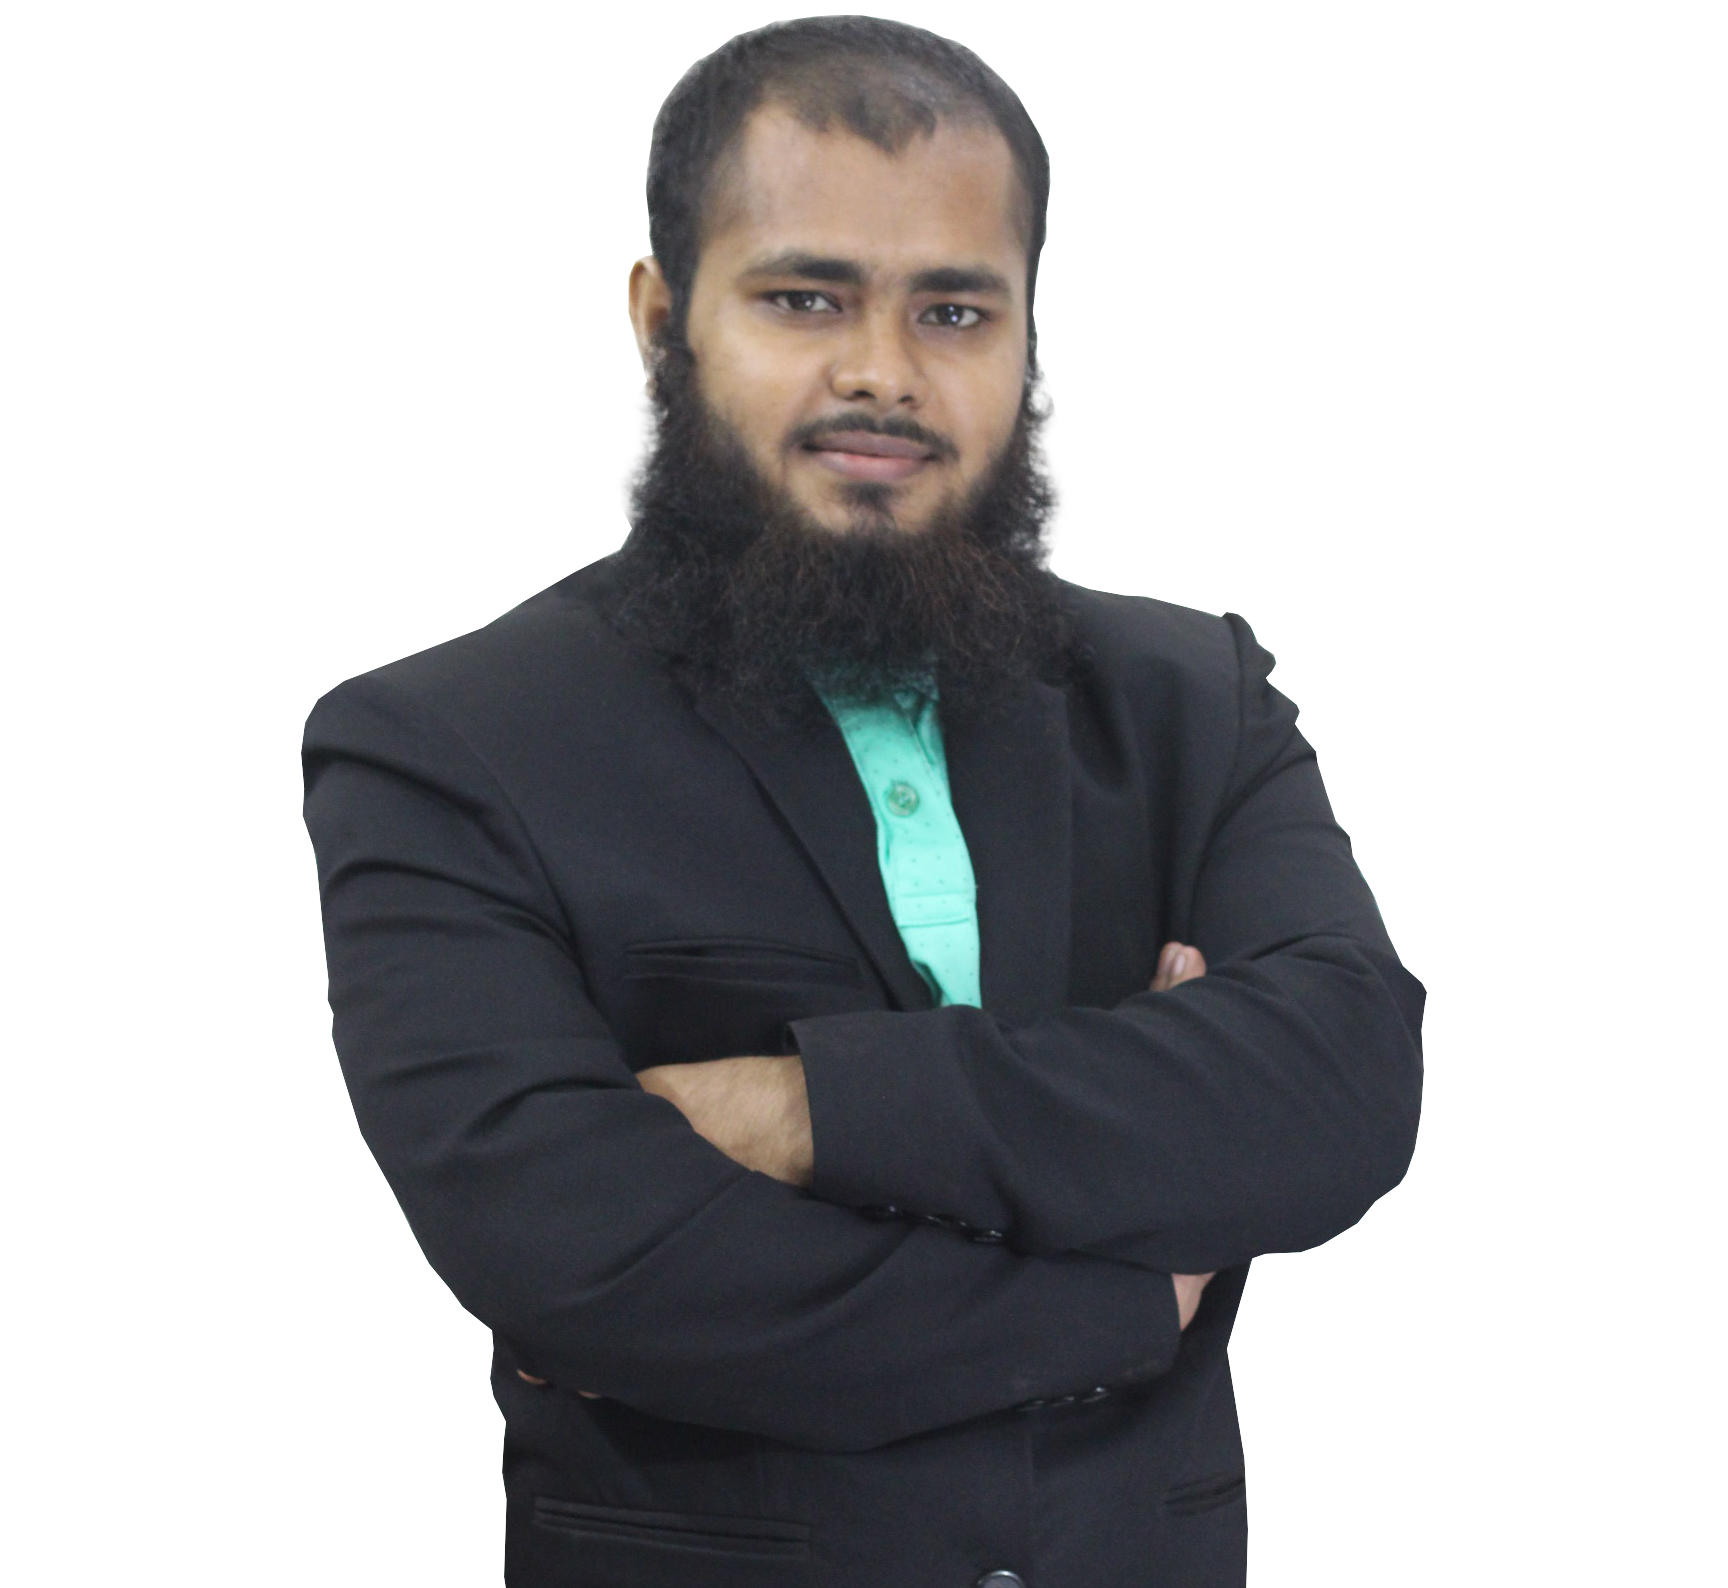
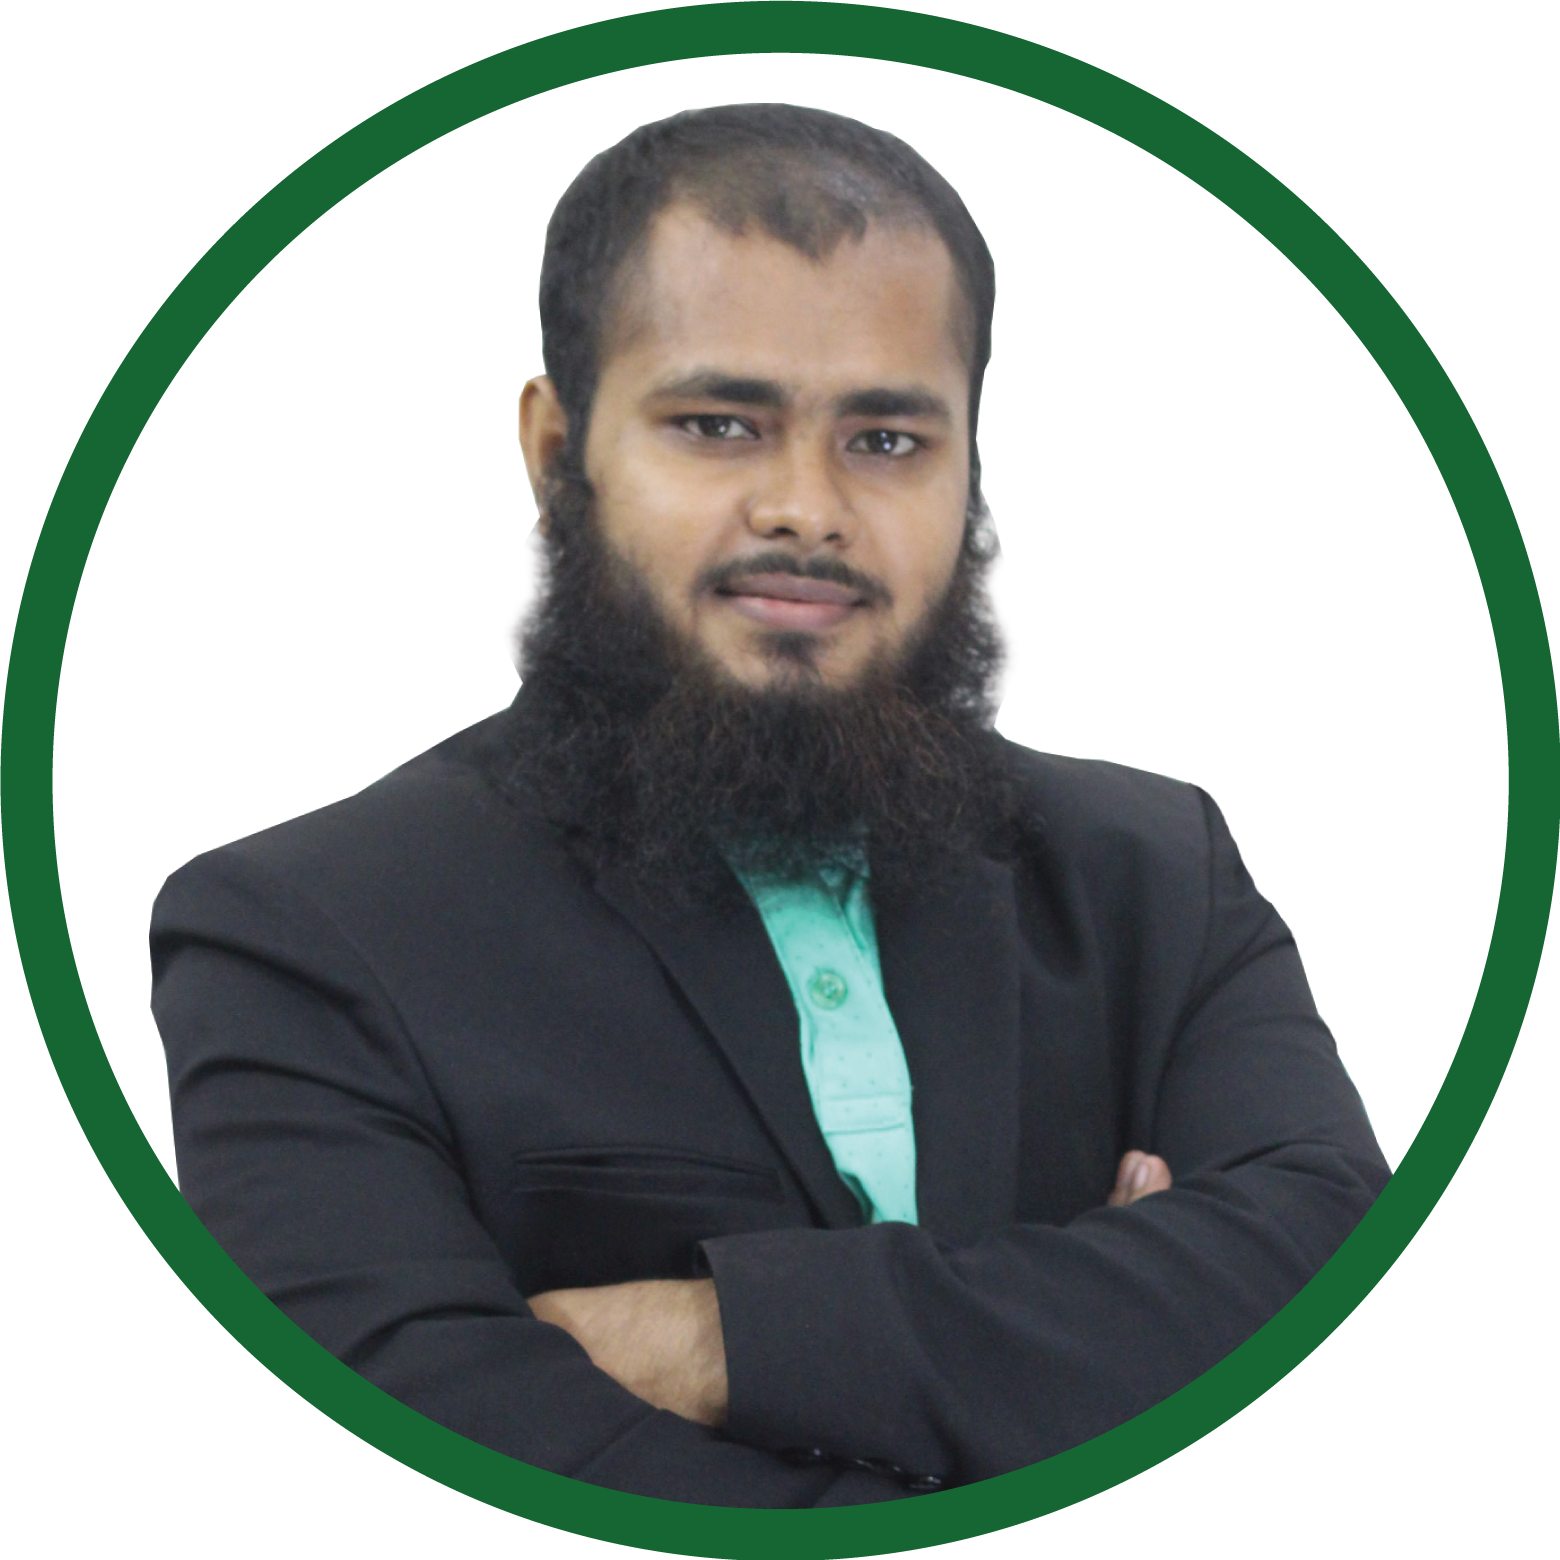
update section are done

diff --git a/src/Components/Blog.js b/src/Components/Blog.js
@@ -1,8 +1,21 @@
 import React from "react";
+import { useQuery } from "react-query";
+import Loading from "../Shared/Loading";
 import BlogCart from "./BlogCart";
 import PrimaryButton from "./PrimaryButton";
 
 const Blog = () => {
+  const { isLoading, data: update } = useQuery({
+    queryKey: "update",
+    queryFn: () =>
+      fetch("https://ashrafs-servier.vercel.app/update").then((res) =>
+        res.json()
+      ),
+  });
+  if (isLoading) {
+    return <Loading />;
+  }
+
   return (
     <div>
       <h2 className="text-3xl mt-10 text-center text-[#166534]">
@@ -12,40 +25,13 @@ const Blog = () => {
         Check what's popular on Freepik and make your project look trendy and
         professional.
       </p>
-      <div className="m-10 grid grid-cols-3 gap-4 2xl:mx-40">
-        <BlogCart />
-        <div className="card card-compact bg-base-100 shadow-xl">
-          <figure>
-            <img
-              className="w-full"
-              src="https://placeimg.com/400/225/arch"
-              alt="Shoes"
-            />
-          </figure>
-          <div className="card-body">
-            <h2 className="card-title">Shoes!</h2>
-            <p>If a dog chews shoes whose shoes does he choose?</p>
-            <div className="card-actions justify-end">
-              <button className="btn btn-primary">View More..</button>
-            </div>
-          </div>
-        </div>
-        <div className="card card-compact bg-base-100 shadow-xl">
-          <figure>
-            <img
-              className="w-full"
-              src="https://placeimg.com/400/225/arch"
-              alt="Shoes"
-            />
-          </figure>
-          <div className="card-body">
-            <h2 className="card-title">Shoes!</h2>
-            <p>If a dog chews shoes whose shoes does he choose?</p>
-            <div className="card-actions justify-end">
-              <button className="btn btn-primary">View More..</button>
-            </div>
-          </div>
-        </div>
+      <div className="m-10 grid lg:grid-cols-3 md:grid-cols-2 grid-cols-1 gap-4 2xl:mx-40">
+        {[...update]
+          .reverse()
+          .slice(0, 6)
+          .map((u) => (
+            <BlogCart u={u} />
+          ))}
       </div>
       <div className="text-center mb-10">
         <PrimaryButton>See More Update</PrimaryButton>

diff --git a/src/Components/BlogCart.js b/src/Components/BlogCart.js
@@ -1,21 +1,24 @@
 import React from "react";
 
-const BlogCart = () => {
+const BlogCart = ({ u }) => {
+  const { _id, heading, img, details } = u;
   return (
-    <div>
+    <div key={_id}>
       <div className="card card-compact bg-base-100 shadow-xl">
         <figure>
           <img
-            className="w-full"
-            src="https://placeimg.com/400/225/arch"
+            className="w-full lg:h-[295px] md:h-[225px] h-[230px] object-cover"
+            src={img}
             alt="Shoes"
           />
         </figure>
         <div className="card-body">
-          <h2 className="card-title">Shoes!</h2>
-          <p>If a dog chews shoes whose shoes does he choose?</p>
+          <h2 className="card-title">{heading}</h2>
+          <p className="text-lg">
+            {details.length >= 100 ? details.slice(0, 100) : details}...
+          </p>
           <div className="card-actions justify-end">
-            <button className="btn btn-primary">Buy Now</button>
+            <button className="btn btn-primary">View more</button>
           </div>
         </div>
       </div>

diff --git a/src/Components/Community.js b/src/Components/Community.js
@@ -6,12 +6,12 @@ const Community = () => {
   return (
     <div>
       <div className="mt-10 mx-10 2xl:mx-36 shadow-xl rounded-2xl bg-gray-100 flex items-center">
-        <div className="p-10 w-3/5 text-center">
-          <h2 className="text-2xl">
+        <div className="p-10 md:w-3/5 w-full text-center">
+          <h2 className="md:text-2xl text-xl">
             Join <span className="font-bold text-[#6DA940]">ashrafs care</span>{" "}
             community.
           </h2>
-          <p className="my-5">
+          <p className="my-5 text-start lg:text-center">
             Lorem ipsum dolor sit amet consectetur adipisicing elit. Aut impedit
             reprehenderit placeat exercitationem voluptatum error esse omnis.
             Incidunt, quasi facilis.
@@ -20,7 +20,7 @@ const Community = () => {
             <PrimaryButton>Join Community</PrimaryButton>
           </div>
         </div>
-        <img className="w-2/4" src={community} alt="" />
+        <img className="w-2/4 hidden md:flex" src={community} alt="" />
       </div>
     </div>
   );

diff --git a/src/Components/Header.js b/src/Components/Header.js
@@ -38,10 +38,10 @@ const Header = () => {
   return (
     <div>
       <div className="bg-gradient-to-r from-gray-900 via-blue-900 to-purple-900 pt-20 pb-10">
-        <h2 className="text-white text-3xl text-center font-bold mt-10">
+        <h2 className="text-white md:text-3xl text-2xl text-center font-bold mt-10">
           All the assets you need, in one place
         </h2>
-        <h4 className="text-white text-center text-xl mt-5">
+        <h4 className="text-white text-center text-md lg:text-xl mt-5">
           Find and download the best high-quality photos, designs, and mockups
         </h4>
         <form className="mt-5 mx-5 flex justify-center">
@@ -63,7 +63,7 @@ const Header = () => {
             className="mx-10 mt-16 text-white text-center z-10"
           >
             {courses.map((c) => (
-              <div>
+              <div key={c._id}>
                 <div className="flex justify-center">
                   <img
                     className="rounded-full w-3/5 border-white p-1 border-[3px]"

diff --git a/src/Shared/Footer.js b/src/Shared/Footer.js
@@ -1,13 +1,13 @@
 import React from "react";
 import { Link } from "react-router-dom";
-import logo from "../Assets/logo-white.png";
 import { AiFillInstagram } from "react-icons/ai";
 import { RiWhatsappFill } from "react-icons/ri";
 
 const Footer = () => {
+  const year = new Date().toLocaleString().split(",")[0].split("/")[2];
   return (
     <div>
-      <footer className="footer p-10 bg-[#166534] text-base-content">
+      <footer className="footer p-10 bg-[#166534] text-white">
         <div>
           <span className="footer-title">Services</span>
           <Link to="/" className="link link-hover">
@@ -85,9 +85,7 @@ const Footer = () => {
       </footer>
       <div className="bg-[#166534]">
         <div className="flex justify-center items-center pb-2">
-          <p className="text-xl ml-10 text-white">
-            © zanjira.com 2022 | Powered by ashrafs.care
-          </p>
+          <p className="text-xl ml-10 text-white">&#169; ashrafs.care {year}</p>
         </div>
         <p></p>
       </div>

diff --git a/src/Shared/Navbar.js b/src/Shared/Navbar.js
@@ -26,7 +26,7 @@ const Navbar = () => {
       className={`flex justify-between bg-green-500 text-black ${stickyClass} `}
     >
       <div
-        className={`relative mb-[-80px] flex px-5 items-center ${stickyClass}`}
+        className={`relative mb-[-80px] flex px-10 2xl:px-40 items-center ${stickyClass}`}
       >
         <Link to="/home">
           <img className="w-48" src={logo} alt="" />
@@ -65,7 +65,7 @@ const Navbar = () => {
         </div>
       </div>
       <div
-        className={`relative mb-[-80px] flex px-5 items-center justify-end right-0 ${stickyClass}`}
+        className={`relative mb-[-80px] flex px-10 2xl:px-40 items-center justify-end right-0 ${stickyClass}`}
       >
         <div className="hidden md:flex">
           <NavLink

diff --git a/src/Components/Profile.js b/src/Components/Profile.js
@@ -6,9 +6,13 @@ const Profile = () => {
     <div>
       <div className="hero py-10 bg-[#F8F6ED]">
         <div className="hero-content flex-col lg:flex-row">
-          <img src={photo} className="max-w-sm rounded-lg " alt="" />
-          <div className="lg:pl-10 shadow-2xl rounded-lg pt-5 bg-white">
-            <h1 className="text-5xl font-bold text-[#166534]">
+          <img
+            src={photo}
+            className="max-w-sm rounded-full shadow-2xl"
+            alt=""
+          />
+          <div className="lg:p-10 p-5 shadow-2xl rounded-lg pt-5 bg-white">
+            <h1 className="md:text-5xl text-3xl font-bold text-[#166534]">
               Ahmadullah Ashraf
             </h1>
             <p className="py-6">

diff --git a/src/Components/QNA.js b/src/Components/QNA.js
@@ -10,7 +10,7 @@ const QNA = () => {
       <div
         onClick={() => setClose(<input type="checkbox" />)}
         onBlur={() => setClose("")}
-        className="px-10 grid grid-cols-2 gap-5 2xl:px-36 py-5"
+        className="px-10 grid grid-cols-1 lg:grid-cols-2 gap-5 2xl:px-36 py-5"
       >
         <div
           tabIndex={0}

diff --git a/src/Components/PrimaryButton.js b/src/Components/PrimaryButton.js
@@ -2,7 +2,7 @@ import React from "react";
 
 const PrimaryButton = ({ children }) => {
   return (
-    <div className="btn bg-gradient-to-r from-[#6CA83F] via-[#4C8F3E] to-[#166534] border-0">
+    <div className="btn bg-gradient-to-r from-[#6CA83F] via-[#4C8F3E] to-[#166534] border-0 text-white">
       {children}
     </div>
   );
